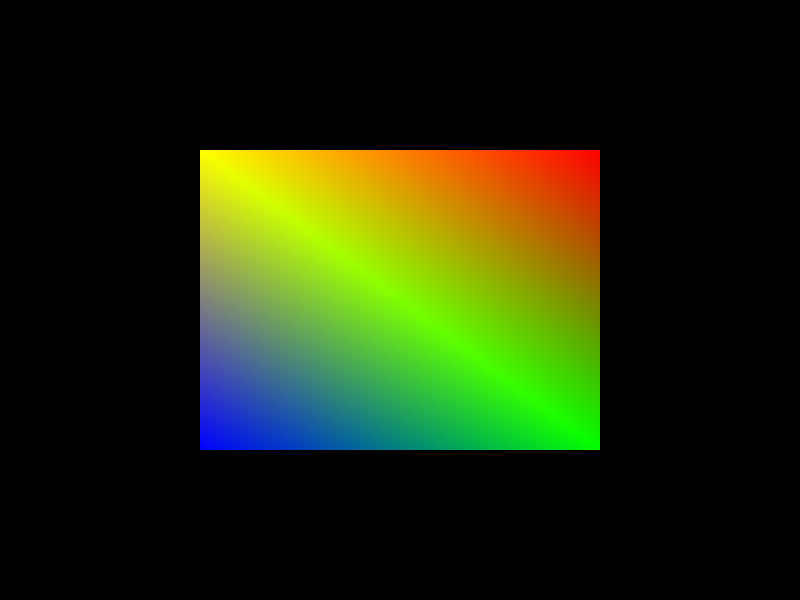
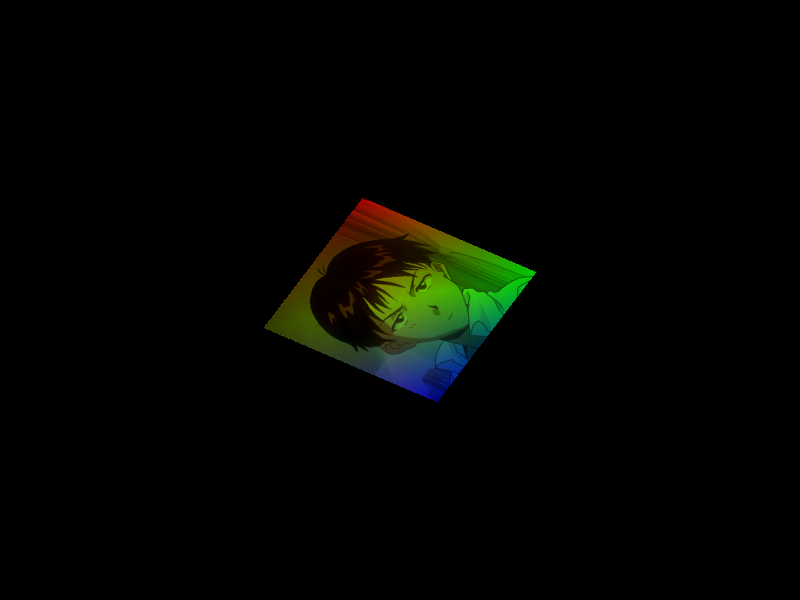
Add transforms and textures

Changed region(s): [[0.25, 0.24, 0.75, 0.75]]

diff --git a/src/vertices.cpp b/src/vertices.cpp
@@ -1,0 +1,46 @@
+#include "../include/main.h"
+#include "../include/vertices.h"
+
+
+float vertices[] = {
+     0.5f,  0.5f, 0.0f, 	1.0f, 0.0f, 0.0f,   1.0f, 1.0f, // top right
+     0.5f, -0.5f, 0.0f,		0.0f, 1.0f, 0.0f,   1.0f, 0.0f, // bottom right
+    -0.5f, -0.5f, 0.0f, 	0.0f, 0.0f, 1.0f,   0.0f, 0.0f, // bottom left
+    -0.5f,  0.5f, 0.0f, 	1.0f, 1.0f, 0.0f,   0.0f, 1.0f  // top left 
+};
+unsigned int indices[] = {  // note that we start from 0!
+    0, 1, 3,   // first triangle
+    1, 2, 3    // second triangle
+};   // hard coded sample vertices of 2d rectangle
+
+GLuint VAO;
+GLuint VBO;
+GLuint EBO;
+
+// GLuint vertexShader;
+// GLuint fragmentShader;
+// GLuint shaderProgram;
+
+void InitVertices()
+{
+	glGenVertexArrays(1, &VAO);
+	glGenBuffers(1, &VBO);
+	glGenBuffers(1, &EBO);
+
+	glBindVertexArray(VAO);
+	glBindBuffer(GL_ARRAY_BUFFER, VBO);
+
+	glBufferData(GL_ARRAY_BUFFER, sizeof(vertices), vertices, GL_DYNAMIC_DRAW); // Draw vertices dynamically as shape moves	
+	
+	glBindBuffer(GL_ELEMENT_ARRAY_BUFFER, EBO);
+	glBufferData(GL_ELEMENT_ARRAY_BUFFER, sizeof(indices), indices, GL_DYNAMIC_DRAW); // Specify indices to draw vertices with EBO
+
+	glVertexAttribPointer(0, 3, GL_FLOAT, GL_FALSE, 8*sizeof(float), (void *)0);
+	glEnableVertexAttribArray(0);
+
+	glVertexAttribPointer(1, 3, GL_FLOAT, GL_FALSE, 8*sizeof(float), (void*)(3*sizeof(float)));
+	glEnableVertexAttribArray(1);
+
+    glVertexAttribPointer(2, 2, GL_FLOAT, GL_FALSE, 8*sizeof(float), (void*)(6*sizeof(float)));
+    glEnableVertexAttribArray(2);  
+}

diff --git a/src/shader.cpp b/src/shader.cpp
@@ -91,43 +91,3 @@ void Shader::setFloat(const std::string &name, float value) const
 { 
     glUniform1f(glGetUniformLocation(ID, name.c_str()), value); 
 }
-
-float vertices[] = {
-     0.5f,  0.5f, 0.0f, 	1.0f, 0.0f, 0.0f, // top right
-     0.5f, -0.5f, 0.0f,		0.0f, 1.0f, 0.0f, // bottom right
-    -0.5f, -0.5f, 0.0f, 	0.0f, 0.0f, 1.0f,  // bottom left
-    -0.5f,  0.5f, 0.0f, 	1.0f, 1.0f, 0.0f   // top left 
-};
-unsigned int indices[] = {  // note that we start from 0!
-    0, 1, 3,   // first triangle
-    1, 2, 3    // second triangle
-};   // hard coded sample vertices of 2d rectangle
-
-GLuint VAO;
-GLuint VBO;
-GLuint EBO;
-
-// GLuint vertexShader;
-// GLuint fragmentShader;
-// GLuint shaderProgram;
-
-void InitVertices()
-{
-	glGenVertexArrays(1, &VAO);
-	glGenBuffers(1, &VBO);
-	glGenBuffers(1, &EBO);
-
-	glBindVertexArray(VAO);
-	glBindBuffer(GL_ARRAY_BUFFER, VBO);
-
-	glBufferData(GL_ARRAY_BUFFER, sizeof(vertices), vertices, GL_DYNAMIC_DRAW); // Draw vertices dynamically as shape moves	
-	
-	glBindBuffer(GL_ELEMENT_ARRAY_BUFFER, EBO);
-	glBufferData(GL_ELEMENT_ARRAY_BUFFER, sizeof(indices), indices, GL_DYNAMIC_DRAW); // Specify indices to draw vertices with EBO
-
-	glVertexAttribPointer(0, 3, GL_FLOAT, GL_FALSE, 6*sizeof(float), (void *)0);
-	glEnableVertexAttribArray(0);
-
-	glVertexAttribPointer(1, 3, GL_FLOAT, GL_FALSE, 6*sizeof(float), (void*)(3*sizeof(float)));
-	glEnableVertexAttribArray(1);
-}

diff --git a/src/main.cpp b/src/main.cpp
@@ -1,8 +1,11 @@
 #include "../include/main.h"
+#include "../include/vertices.h"
 #include "../include/shader.h"
+#include "../include/texture.h"
 
 #define WIDTH 800
 #define HEIGHT 600
+
 
 int main()
 {
@@ -30,6 +33,7 @@ int main()
 	InitVertices();
 
 	Shader shader("shaders/shader.vs", "shaders/shader.fs");
+	GenerateTexture();
 
 	while(!glfwWindowShouldClose(window)) {
 		glClearColor(0.0f, 0.0f, 0.0f, 1.0f);
@@ -38,7 +42,17 @@ int main()
 		if(glfwGetKey(window, GLFW_KEY_ESCAPE) == GLFW_PRESS)
 			glfwSetWindowShouldClose(window, true);
 
+		unsigned int transformLoc = glGetUniformLocation(shader.ID, "transform");
+
+		glm::mat4 trans = glm::mat4(1.0f);
+		trans = glm::scale(trans, glm::vec3(0.5, 0.5, 0.5));  
+		trans = glm::rotate(trans, (float)glfwGetTime(), glm::vec3(0.0f, 0.0f, 1.0f));
+		
+		glUniformMatrix4fv(transformLoc, 1, GL_FALSE, glm::value_ptr(trans));
+		
 		shader.use();
+		glBindTexture(GL_TEXTURE_2D, texture);
+
 		glBindVertexArray(VAO);
 		glBindBuffer(GL_ELEMENT_ARRAY_BUFFER, EBO);
 

diff --git a/src/texture.cpp b/src/texture.cpp
@@ -1,0 +1,33 @@
+#include "../include/main.h"
+#include "../include/texture.h"
+
+#define STB_IMAGE_IMPLEMENTATION
+#include "stb/stb_image.h"
+
+
+unsigned int texture;
+
+void GenerateTexture()
+{
+	int width, height, nrChannels;
+	stbi_set_flip_vertically_on_load(true);  
+	unsigned char *data = stbi_load("assets/texture.jpg", &width, &height, &nrChannels, 0);
+	
+	glGenTextures(1, &texture);
+	glBindTexture(GL_TEXTURE_2D, texture);
+
+	glTexParameteri(GL_TEXTURE_2D, GL_TEXTURE_WRAP_S, GL_REPEAT);
+	glTexParameteri(GL_TEXTURE_2D, GL_TEXTURE_WRAP_T, GL_REPEAT);
+	glTexParameteri(GL_TEXTURE_2D, GL_TEXTURE_MIN_FILTER, GL_LINEAR);
+	glTexParameteri(GL_TEXTURE_2D, GL_TEXTURE_MAG_FILTER, GL_LINEAR);
+	
+	if (data) {
+		glTexImage2D(GL_TEXTURE_2D, 0, GL_RGB, width, height, 0, GL_RGB, GL_UNSIGNED_BYTE, data);
+		glGenerateMipmap(GL_TEXTURE_2D);
+	}
+	else {
+		std::cout << "Failed to load texture\n";
+	}
+
+	stbi_image_free(data);
+}

diff --git a/include/main.h b/include/main.h
@@ -16,6 +16,10 @@
 // #include <glm/gtx/transform.hpp>
 // #include <glm/gtx/quaternion.hpp>
 
+#include <glm/glm.hpp>
+#include <glm/gtc/matrix_transform.hpp>
+#include <glm/gtc/type_ptr.hpp>
+
 #include <stb/stb_image_write.h>
 
 void framebuffer_size_callback(GLFWwindow* window, int width, int height);  

diff --git a/include/shader.h b/include/shader.h
@@ -1,8 +1,3 @@
-extern unsigned int VAO;
-extern unsigned int EBO;
-
-void InitVertices();
-
 #ifndef SHADER_H
 #define SHADER_H
 

diff --git a/include/vertices.h b/include/vertices.h
@@ -1,0 +1,4 @@
+extern unsigned int VAO;
+extern unsigned int EBO;
+
+void InitVertices();

diff --git a/include/texture.h b/include/texture.h
@@ -1,0 +1,3 @@
+extern unsigned int texture;
+
+void GenerateTexture();
